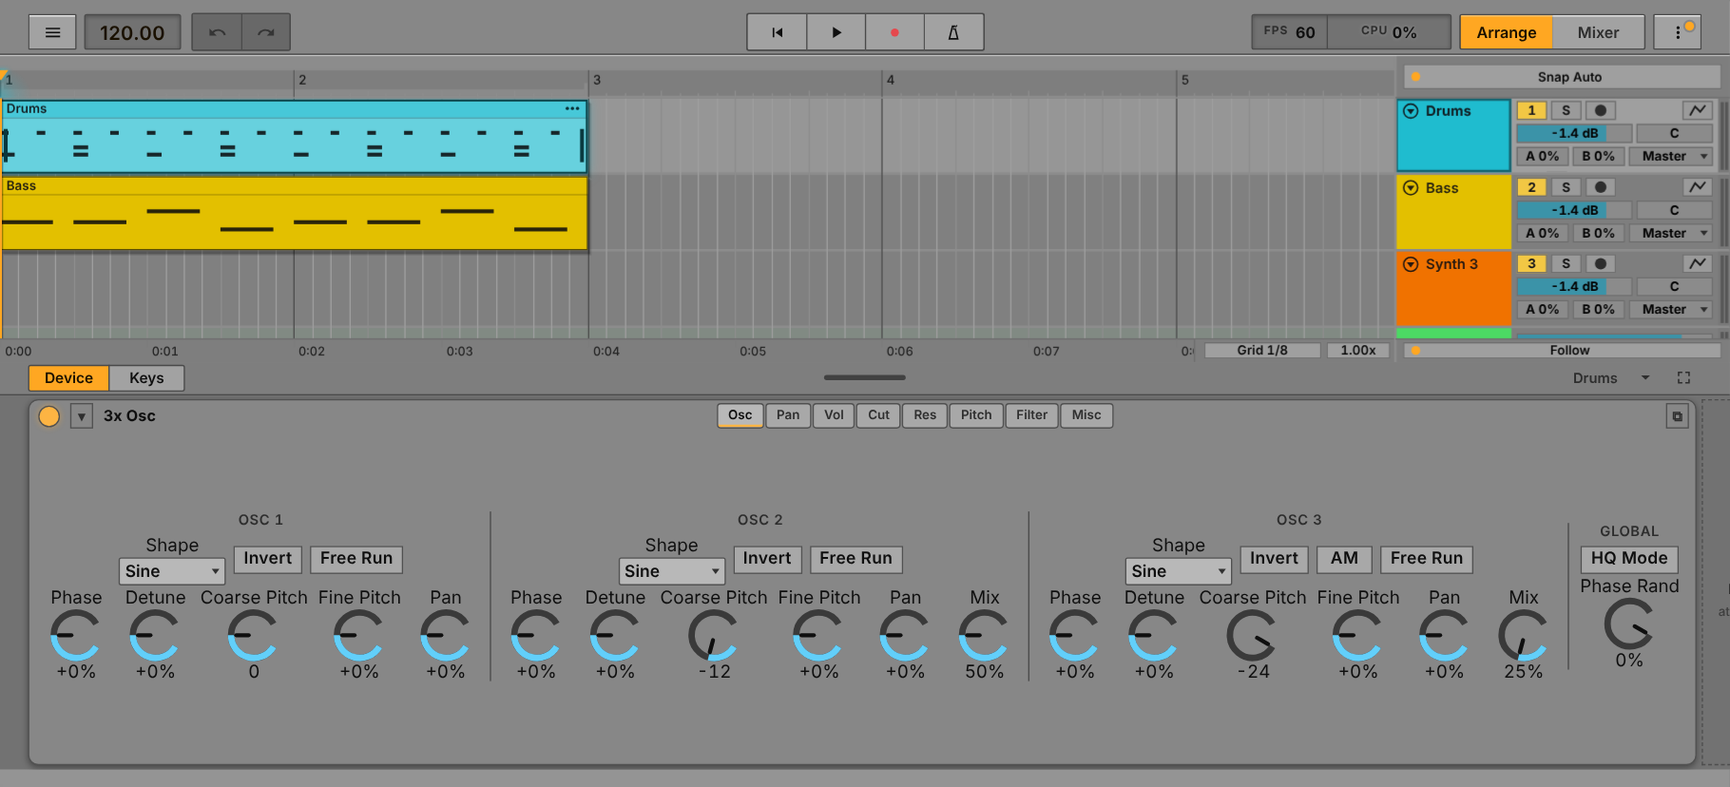
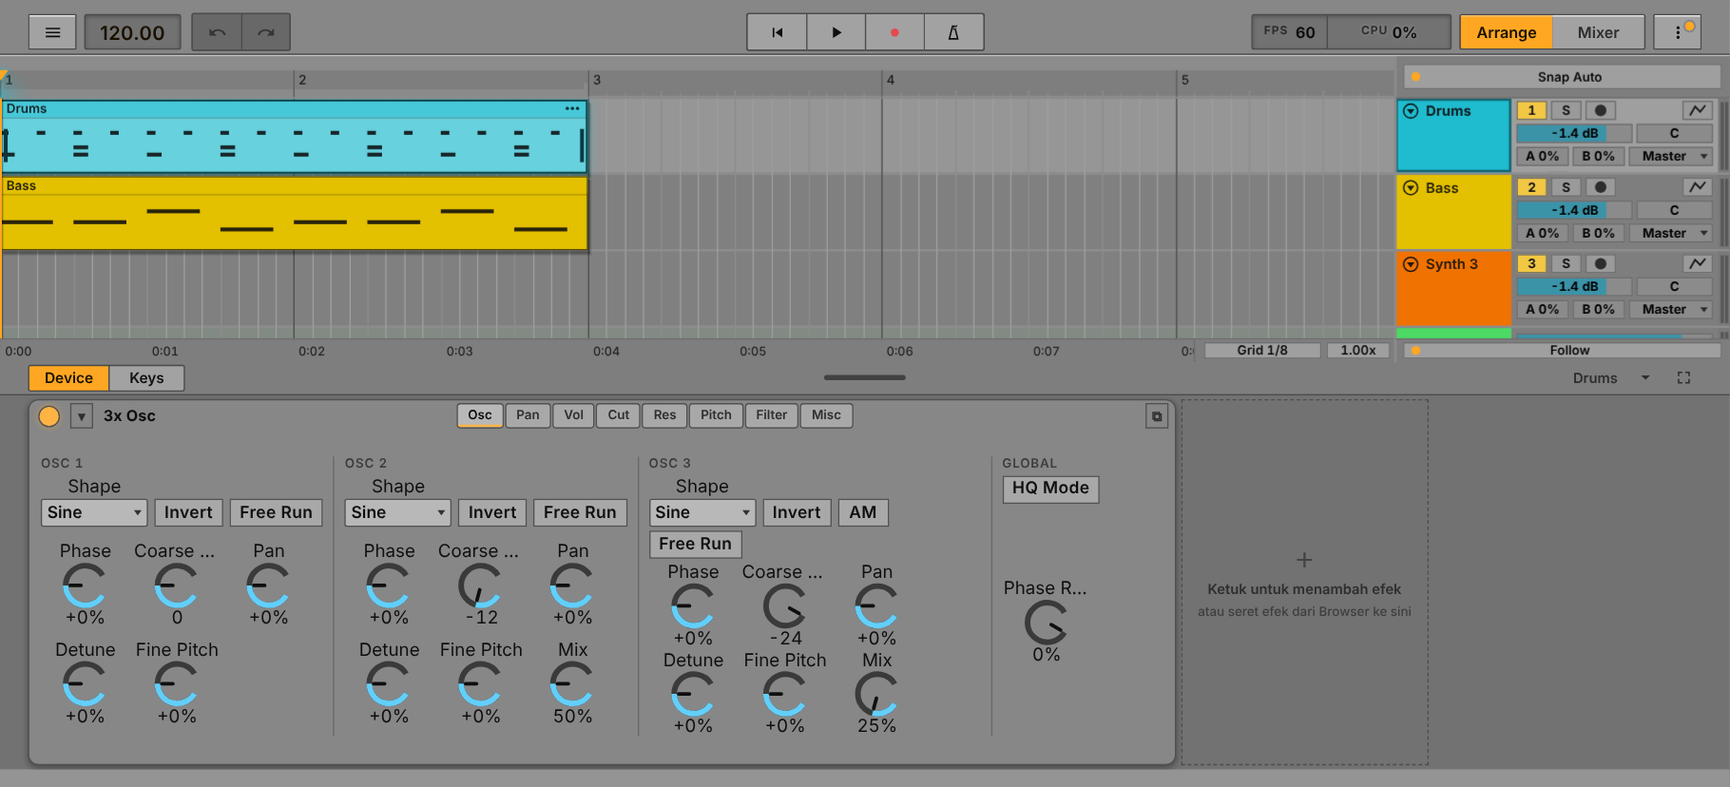
FLM module cards in Ableton Live's layout
- js/flmlayout.js: a layout per FLM module (37 effects, Transistor Bass,
  Slicer): titled sections, sync pairs, keyboards, label overrides.
- fxkit.js flmLayout: display on the left, sections with menus/switches on
  top and a two-row knob grid with fixed cells; Title Case labels without
  the section's own prefix, Live-style abbreviations; only the active rate
  control of a Sync pair is shown; Pitcher / Pitcher 2 keyboards toggle notes
  by tapping the display. 3x Osc tabs use the same renderer.
- Card screenshots in docs/redesign/flmfx/cards-*.png.

Claude-Session: https://claude.ai/code/session_016R99TjSh2G5U2VqVgMNHhT

diff --git a/js/fxkit.js b/js/fxkit.js
@@ -7,6 +7,7 @@ import { C } from './theme.js';
 import { fmtParam, normOf, valOf, MOD_MAP, DEVICES, INSTRUMENTS, FX_GROUPS, IRACK_DEF } from './defs.js';
 import { buildSynth } from './devviz.js';
 import { menuItem } from './fxlaw.js';
+import { FLM_LAYOUT, flmName, flmShort } from './flmlayout.js';
 import { FLM_GRAPH } from './flmviz.js';
 import { OP_ALGOS } from './engine/operator.js';
 import { POLI_TGT, POLI_GRID, POLI_MIDI } from './engine/poli.js';
@@ -1721,8 +1722,45 @@ const flmPanel = (k, only = null, short = null) => {
     notes.length ? h('div', { class: 'lk-row lk-flmnotes' }, ...notes) : null, h('div', { class: 'lk-row lk-flmk' }, ...knobs));
   return disp ? h('div', { class: 'lk-row lk-flm' }, h('div', { class: 'lk-col lk-flmd' }, disp), body) : body;
 };
-for (const t of Object.keys(DEVICES)) if (DEVICES[t].view === 'flmfx') V[t] = flmPanel;
-VI[34] = flmPanel;   // Transistor Bass: the same compact FLM layout (its Distortion is a switch)
+// Live-style card of an FLM module (js/flmlayout.js): its display left, then titled sections; in a section the menus / switches on top and
+// the knobs in a grid (two rows from four knobs on), Sync pairs show only the rate control that plays, note toggles as a one-octave keyboard.
+const BLACK = [1, 3, 6, 8, 10];
+const flmLayout = (k, L) => {
+  const ps = k.def.params, when = [];
+  const esc = (t) => t.replace(/[.*+?^${}()|[\]\\/]/g, '\\$&');
+  const tidy = (j, title = '') => {   // the name without what its section title already says ("LFO Rate" in LFO -> "Rate"), first letter capital
+    if (L.names && L.names[j]) return L.names[j];
+    let n = flmName(ps[j].n); if (title) n = n.replace(new RegExp('^' + esc(title) + ' ', 'i'), ''); if (L.strip) n = n.replace(L.strip, ''); n = n.trim() || flmName(ps[j].n);
+    return n[0].toUpperCase() + n.slice(1);
+  };
+  const ctl = (j, title = '') => {
+    const p = ps[j]; let el; const nm = tidy(j, title);
+    if (p.fmt === 'flmlist') { const n = p.items.length; el = k.TL(nm, k.reg(lvSel(() => p.items.map((l, q) => ({ label: l, value: q })), () => (p.br ? menuItem(p.br, k.get(j)) : Math.round(k.get(j) * (n - 1))), (q) => k.set(j, n > 1 ? q / (n - 1) : 0), { w: 84, cls: 'lk-s' }), j)); el.dataset.kind = 'm'; }
+    else if (p.fmt === 'onoff') { el = k.T(j, nm, { w: Math.max(40, Math.min(110, 10 + nm.length * 7)) }); el.dataset.kind = 't'; }
+    else { el = k.K(j, { n: flmShort(nm), p: { lawCtx: () => ({ p: k.d.params }) } }); el.title = nm; el.dataset.kind = 'k'; }
+    if (L.when && L.when[j]) when.push([el, L.when[j]]);
+    return el;
+  };
+  const section = ([title, idx]) => {
+    const els = idx.filter((j) => ps[j] && !ps[j].hidden).map((j) => ctl(j, title)), top = els.filter((e) => e.dataset.kind !== 'k'), kn = els.filter((e) => e.dataset.kind === 'k');
+    const grid = kn.length ? h('div', { class: 'lk-fg', style: `grid-template-rows:repeat(${kn.length >= 4 ? 2 : 1},auto)` }, ...kn) : null;
+    return h('div', { class: 'lk-fs' }, h('div', { class: 'lk-fsh' }, title), top.length ? h('div', { class: 'lk-fst' }, ...top) : null, grid);
+  };
+  const keys = L.keys ? h('div', { class: 'lk-fs' }, h('div', { class: 'lk-fsh' }, L.keys[0]), h('div', { class: 'lk-fkeys' }, ...L.keys[1].map((j, q) =>
+    k.T(j, ps[j].n.replace(new RegExp('^' + L.keys[2], 'i'), '').replace(/^(.)b$/, (_, a) => 'CDEFGAB'['CDEFGAB'.indexOf(a) - 1] + '#'), { w: 26, cls: 'lk-key' + (BLACK.includes(q) ? ' blk' : '') }))), L.after ? h('div', { class: 'lk-fst' }, ...L.after.map(ctl)) : null) : null;
+  const tap = L.tap ? { onDown: (x, y, e) => {   // flmviz.js keys(): white keys across, black keys on the upper 60 %
+    const c = e.currentTarget, w = c._w, hh = c._h, kw = (w - 8) / 7, top = 16, h2 = hh - top - 4, j = Math.floor((x - 4) / kw);
+    let note = [0, 2, 4, 5, 7, 9, 11][Math.max(0, Math.min(6, j))];
+    if (y < top + h2 * 0.6) for (const [bk, bj] of [[1, 0], [3, 1], [6, 3], [8, 4], [10, 5]]) { const cx = 4 + (bj + 1) * kw; if (Math.abs(x - cx) <= kw * 0.3) note = bk; }
+    const pi = L.tap(note); k.set(pi, k.get(pi) > 0.5 ? 0 : 1); return false; } } : null;
+  const gr = FLM_GRAPH[k.def.flm], disp = gr ? h('div', { class: 'lk-fdisp' + (tap ? ' tap' : '') }, k.DF(190, 96, (g, w, hh) => gr(g, w, hh, (j) => k.get(j)), tap)) : null;
+  const sync = () => { for (const [el, [t, on]] of when) { const show = (k.get(t) > 0.5) === on; if (el._shown !== show) { el._shown = show; el.style.display = show ? '' : 'none'; } } };
+  sync(); if (when.length) k.every(120, sync);
+  return h('div', { class: 'lk-row lk-fl' }, disp, ...(keys ? [keys] : []), ...L.s.map(section));
+};
+const flmCard = (k) => { const L = FLM_LAYOUT[k.def.flm != null && !k.def.native ? k.def.flm : 'i' + k.d.type]; return L ? flmLayout(k, L) : flmPanel(k); };
+for (const t of Object.keys(DEVICES)) if (DEVICES[t].view === 'flmfx') V[t] = flmCard;
+VI[34] = flmCard;   // Transistor Bass: the same compact FLM layout (its Distortion is a switch)
 // 3x Osc: FLM's eight pages (Honeydew instruments.rs) as tabs; within a page the controls drop the page's own prefix ("Volume Envelope Attack"
 // -> "Attack"). The tab is remembered per track.
 const OSC3_PAGES = (() => {
@@ -1736,8 +1774,9 @@ const OSC3_PAGES = (() => {
 const osc3Tab = new Map();
 VI[36] = (k) => {
   const key = k.ctx.d && k.ctx.d.id, page = h('div', { class: 'lk-row lk-o3p' });
-  const short = (n) => n.replace(/^Osc 3 = amplitude modulation$/, 'AM').replace(/^Osc [123] /, '').replace(/^Stereo Phase Randomness$/, 'Phase Rand').replace(/^(Pan|Volume|ModX|ModY|Pitch) (LFO|Envelope) /, '').replace(/^Delay /, '').replace(/^Arpeggio /, '').replace(/^Filter /, '').replace(/^Key Tracking /, 'Key ').replace(/^Velocity Tracking /, 'Vel ');
-  const show = (j) => { osc3Tab.set(key, j); page.replaceChildren(...OSC3_PAGES[j][1].map(([title, idx]) => h('div', { class: 'lk-col lk-o3g' }, h('div', { class: 'lk-o3h' }, title), flmPanel(k, idx, short)))); };
+  const short = (n) => n.replace(/^Osc 3 = amplitude modulation$/, 'AM').replace(/^Osc [123] /, '').replace(/^Stereo Phase Randomness$/, 'Phase Rand').replace(/^(Pan|Volume|ModX|ModY|Pitch) (LFO|Envelope) /, '').replace(/^Delay /, '').replace(/^Arpeggio /, '').replace(/^Filter /, '').replace(/^Key Tracking /, 'Key ').replace(/^Velocity Tracking /, 'Vel ').replace(/^(Attack|Decay|Release) Tension$/, (_, a) => a[0] + ' Curve').replace(/^Volume Multiplier$/, 'Vol Mult').replace(/^Portamento /, 'Porta ').replace(/^Maximum Polyphony$/, 'Voices').replace(/^Monophonic Mode$/, 'Mono');
+  const names = {}; for (const [, groups] of OSC3_PAGES) for (const [, idx] of groups) for (const j of idx) names[j] = short(k.def.params[j].n);
+  const show = (j) => { osc3Tab.set(key, j); page.replaceChildren(flmLayout(k, { s: OSC3_PAGES[j][1], names })); };
   const j0 = osc3Tab.get(key) || 0;
   const tb = lvTabs(OSC3_PAGES.map(([label]) => ({ label })), j0, show, { cls: 'lk-tabs' });
   show(j0);
@@ -1748,7 +1787,7 @@ VI[35] = (k) => {
   const { i } = k.ctx, t = P.state.tracks[i], z = () => (t.inst.zones && t.inst.zones[0]) || {};
   const name = h('span', { class: 'lk-lb' }), upd = () => { name.textContent = z().sample ? (z().sample.name || String(z().sample.path || '').split('/').pop()) : 'Belum ada loop'; };
   upd(); k.every(500, upd);
-  return k.col(h('div', { class: 'lk-row lk-flmtop' }, h('button', { class: 'lv-btn', onclick: () => BR.openBrowser('file', { track: i, zone: 0 }) }, 'Loop\u2026'), name), flmPanel(k));
+  return k.col(h('div', { class: 'lk-row lk-flmtop' }, h('button', { class: 'lv-btn', onclick: () => BR.openBrowser('file', { track: i, zone: 0 }) }, 'Loop\u2026'), name), flmCard(k));
 };
 
 export const KIT = V;

diff --git a/js/flmlayout.js b/js/flmlayout.js
@@ -1,0 +1,70 @@
+// Card layouts of the FL Studio Mobile modules MobileDAW runs on Honeydew's DSP (devices 100 + FLM id, instruments 34 / 35), drawn the
+// Ableton Live way (fxkit.js flmLayout): the module's display on the left, then titled sections; in a section the menus and switches sit on
+// top and the knobs in a grid of two rows. Indices are FLM's parameter order (js/flmfx.js, defs.js INSTRUMENTS).
+//   s:    [title, [param indices]] per section, in reading order (a param left out stays reachable through automation only if hidden)
+//   keys: [title, [12 note toggles C..B], label prefix to drop] - a one-octave keyboard (Scale, Pitcher, Pitcher 2)
+//   when: { param: [sync toggle, shown while it is on] } - Live's Sync: only the rate control that plays is shown
+//   names: { param: label } where the FLM name would read wrong in its section
+//   tap: (note 0..11) => param - the display is a keyboard (flmviz keys) and a tap toggles that note; tapKeys: those params (no buttons)
+//   strip: a regexp of name parts the section titles already say ("Low ", " (Arp 1)")
+const R = (a, b) => Array.from({ length: b - a + 1 }, (_, q) => a + q);
+const band = (n) => ['Band ' + n, [4 * n, 4 * n - 3, 4 * n - 2, 4 * n - 1, 16 + n]];
+const arp = (n, o) => ['Arp ' + n, [o + 19, o + 10, o + 11, o + 12, o + 13, o + 14, o + 17, o + 18, o + 9, o + 15, 30 + n]];
+const mb = (name, o, w) => [name, [o + 6, o, o + 1, o + 2, o + 3, o + 4, o + 5, w]];
+
+export const FLM_LAYOUT = {
+  3: { s: [band(1), band(2), band(3), band(4)], strip: / \d$/ },
+  4: { s: [['FX', [1, 2, 3]], ['LFO', [4, 6, 5]]] },
+  5: { s: [['Limiter', [1, 2, 3]]] },
+  6: { s: [['Drive', [5, 1, 6, 2]], ['Output', [3, 4]]] },
+  7: { s: [['Bands', R(1, 8)]] },
+  8: { s: [['Compression', [1, 2, 3, 4, 6]], ['Output', [7, 9, 8, 5]]] },
+  9: { s: [['Filter', [3, 4, 1, 2]]] },
+  10: { s: [['Duck', [1, 2, 3]]] },
+  11: { s: [['Chorus', [1, 2, 3, 4]]] },
+  12: { s: [['Reverb', [1, 4, 5, 6, 11, 2]], ['Tone', [8, 9, 17, 18, 7]], ['Modulation', [19, 20]], ['Output', [10, 3, 12]]] },
+  13: { s: [['LFO', [2, 1, 3, 4, 5]], ['Flanger', [6, 7, 9, 8]], ['Output', [10, 11]]], when: { 1: [2, true], 3: [2, false] } },
+  14: { s: [['LFO', [6, 1, 7, 8, 2]], ['Phaser', [4, 3, 9]], ['Output', [5]]], when: { 1: [6, true], 7: [6, false] } },
+  15: { s: [['Stereo', [1, 2, 3, 4, 5]]] },
+  16: { s: [['Delay', [1, 5, 2, 4]], ['Output', [3, 6]]] },
+  18: { s: [['Delay', [1, 2, 3, 4]]] },
+  20: { s: [['Level', [1, 2]]] },
+  25: { s: [['Pitch', [6, 1, 2, 3, 7, 8]], ['Formant', [4, 5]], ['Output', [9]]], keys: ['Bypass', R(10, 21), 'BYP '], after: [22], tap: (k) => 26 + k },   // tap a key of the display: that note on / off (the 12 enables after Post Gain / Mix / Wet Pan)
+  27: { s: [['Gate', [1, 2, 8]], ['Envelope', [3, 4, 5, 6]], ['Output', [7]]] },
+  28: { s: [['Limiter', [4, 3]], ['Gain', [1, 2]]] },
+  29: { s: [['Shape', [7, 4, 5]], ['Duck', [1, 2, 3, 6]]] },
+  30: { s: [['Bands', R(1, 8)], ['Tuning', [9, 10]]] },
+  32: { s: [['Reverb', [1, 7, 8, 9, 6, 5]], ['Tone', [2, 10, 11]], ['Modulation', [12, 13]], ['Output', [3, 4, 14, 15]]] },
+  34: { s: [['L/R', [4, 1, 2]], ['M/S', [6, 5, 3]], ['Mode', [7]]] },
+  35: { s: [['Space', [3, 4, 5, 6, 15]], ['Pre-Delay', [12, 11, 10]], ['Tone', [1, 2, 14, 17]], ['Modulation', [13, 16]], ['Output', [7, 8, 9, 18]]] },
+  36: { s: [['Bands', [4, 30, 2, 3, 1, 5]], mb('Low', 6, 27), mb('Mid', 13, 28), mb('High', 20, 29)], names: { 2: 'Low/Mid', 3: 'Mid/High', 1: 'Output', 30: 'Width', 12: 'Mode', 19: 'Mode', 26: 'Mode' } },
+  40: { s: [['Comb', [1, 7, 2, 10, 11, 3]], ['Shape', [5, 8, 9, 6]], ['Output', [4]]] },
+  41: { names: { 18: 'Rate', 7: 'Spread' }, s: [['Shape', [1, 2, 3, 4, 5]], ['Tone', R(9, 14)], ['LFO', [15, 16, 17, 18, 19, 20]], ['Output', [6, 7, 8]]], when: { 17: [16, true], 18: [16, false] } },
+  42: { s: [['Transport', [5, 7]], ['Stop', [1, 3]], ['Start', [2, 4]], ['Warp', [6]]], when: { 1: [7, false], 3: [7, true], 2: [7, false], 4: [7, true] } },
+  43: { s: [['Sync', [7]], ['Wow', [1, 2, 3]], ['Flutter', [4, 5, 6]], ['Random', [8, 9, 10]]],
+    when: { 1: [7, false], 2: [7, true], 4: [7, false], 5: [7, true], 8: [7, false], 9: [7, true] }, strip: /^(Wow|Flutter|Random) / },
+  44: { names: { 2: 'Low Byp', 3: 'Mono Lo' }, s: [['Spread', [1, 4, 2, 3]]] },
+  45: { s: [['Pitch', [21, 13, 19, 20, 23, 24]], ['Formant', [16, 17, 18]], ['Output', [22, 25, 26]]], tap: (k) => 1 + k, tapKeys: R(1, 12) },
+  46: { names: { 1: 'Rate', 2: 'Rate', 5: 'Phase', 6: 'Stereo', 3: 'Max', 4: 'Min' }, s: [['Rate', [7, 1, 2, 5, 6]], ['Depth', [3, 4]], ['Shape', [8, 9, 10, 11]]], when: { 1: [7, false], 2: [7, true] } },
+  47: { names: { 1: 'Repeats', 2: 'Delay', 3: 'Delay', 5: 'Pitch', 6: 'Velocity', 12: 'Pan', 9: 'Time', 10: 'Length', 11: 'Delay', 13: 'Pan' }, s: [['Echo', [4, 2, 3, 1, 15]], ['Offsets', [5, 6, 12, 14]], ['Drift', [9, 10, 11, 13]], ['Start', [7, 8]]], when: { 2: [4, false], 3: [4, true] } },
+  48: { s: [['Transpose', [1, 2]]] },
+  49: { s: [['Random', R(1, 6)]] },
+  50: { s: [['Scale', [1, 2, 3]]], keys: ['Notes', R(4, 15), 'Note '] },
+  51: { s: [['Rate', [3, 1, 2, 4, 5, 6]], ['Velocity', [7, 8]], arp(1, 0), arp(2, 11)], when: { 1: [3, true], 2: [3, false] }, strip: / \(Arp \d\)$/ },
+  // instruments (defs.js INSTRUMENTS[34] / [35])
+  i34: { names: { 11: 'PW', 12: 'LFO Rate', 13: 'LFO > PW' }, s: [['Oscillator', [1, 11, 12, 13]], ['Filter', [2, 3, 4, 5, 6]], ['Distortion', [7, 8, 9, 10]]] },
+  i35: { s: [['Slices', [7, 8]], ['Voice', [1, 3, 4, 5, 6]]] },
+};
+
+// FLM's panel names in Live's title case: "HIGH DAMP" -> "High Damp", "EARLY REFL." -> "Early Refl." (short codes stay: ER, LFO, M/S ...)
+const KEEP = new Set(['ER', 'LFO', 'FX', 'L/R', 'M/S', 'EQ', 'RMS', 'CRSV']);
+export function flmName(n) {
+  if (!n) return n;
+  if (/[a-z]/.test(n)) return n[0].toUpperCase() + n.slice(1);
+  return n.split(' ').map((w) => (KEEP.has(w) ? w : w.toLowerCase().replace(/(^|[-/(])([a-z])/g, (_, a, b) => a + b.toUpperCase()))).join(' ');
+}
+// Live's short words where a knob label would not fit its cell
+const SHORT = [[/\bFrequency\b/, 'Freq'], [/\bBandwidth\b/, 'Width'], [/\bResonance\b/, 'Reso'], [/\bThreshold\b/, 'Thresh'], [/\bOutput\b/, 'Out'], [/\bInput\b/i, 'In'], [/\bAmount\b/, 'Amt'],
+  [/\bRelease\b/, 'Rel'], [/\bAttack\b/, 'Att'], [/\bFeedback\b/, 'Fdbk'], [/\bDiffusion\b/, 'Diffuse'], [/\bSeparation\b/, 'Sep'], [/\bModulation\b/, 'Mod'], [/ Time\b/, ''], [/\bLevel\b/, 'Lvl'],
+  [/^Early Refl\.$/, 'Early'], [/^Room Size$/, 'Size'], [/^Bass Mult\.$/, 'Bass'], [/^High Damp$/, 'Damp'], [/\bSpeed\b/, 'Spd'], [/\bSemitone\b/, 'Semi'], [/\bRepetitions\b/, 'Repeats'], [/ Ratio$/, ''], [/^Humanization$/, 'Human'], [/\bSensitivity\b/, 'Sens'], [/\bSmoothing\b/, 'Smooth'], [/\bStability\b/, 'Stable'], [/\bAsymmetry\b/, 'Asym']];
+export function flmShort(n) { if (n.length <= 7) return n; for (const [re, w] of SHORT) { n = n.replace(re, w).trim(); if (n.length <= 7) break; } return n; }

diff --git a/sw.js b/sw.js
@@ -1,6 +1,6 @@
 // Offline cache. The cache name contains a hash of every file, so a new deploy replaces the old cache automatically.
-const CACHE = 'mobiledaw-075515709b95';
-const ASSETS = ["./", "./css/app.css", "./css/ableton.css", "./css/float.css", "./css/live.css", "./icons/icon-192.png", "./icons/icon-512.png", "./icons/icon-maskable-512.png", "./index.html", "./js/about.js", "./js/aboutdata.js", "./js/audioedit.js", "./js/autocurve.js", "./js/automate.js", "./js/autosave.js", "./js/browser.js", "./js/chords.js", "./js/colorpick.js", "./js/defs.js", "./js/demos.js", "./js/devices.js", "./js/devviz.js", "./js/drumpad.js", "./js/edgeguard.js", "./js/editor.js", "./js/engine.js", "./js/engine/analog.js", "./js/engine/audioops.js", "./js/engine/cmdtext.js", "./js/engine/core.js", "./js/engine/dsp.js", "./js/engine/drift.js", "./js/engine/ds.js", "./js/engine/fx.js", "./js/engine/fx2.js", "./js/engine/fx3.js", "./js/engine/fx4.js", "./js/engine/fx5.js", "./js/engine/fx6.js", "./js/engine/fx7.js", "./js/engine/fx8.js", "./js/engine/granulator.js", "./js/engine/impulse.js", "./js/engine/instruments.js", "./js/engine/live.js", "./js/engine/meld.js", "./js/engine/meter.js", "./js/engine/mp3.js", "./js/engine/mp3tables.js", "./js/engine/nativesink.js", "./js/engine/operator.js", "./js/engine/phys.js", "./js/engine/poli.js", "./js/engine/sabio.js", "./js/engine/sf2.js", "./js/engine/simpler.js", "./js/engine/flmsyn.js", "./js/engine/hdgms.js", "./js/engine/hdmfx.js", "./js/engine/hdmini.js", "./js/engine/hdsaw.js", "./js/engine/smf.js", "./js/engine/stretchworker.js", "./js/engine/tmap.js", "./js/engine/wav.js", "./js/engine/waveops.js", "./js/engine/mdaw.wasm", "./js/engine/wasmengine.js", "./js/engine/web.js", "./js/engine/worklet-wasm.js", "./js/engine/worklet.js", "./js/floatwin.js", "./js/fps.js", "./js/fxviz.js", "./js/fxkit.js", "./js/flmpanels.js", "./js/flmfx.js", "./js/flm3osc.js", "./js/fxlaw.js", "./js/flmviz.js", "./js/gesture.js", "./js/history.js", "./js/import/als.js", "./js/import/build.js", "./js/import/flm.js", "./js/import/flp.js", "./js/import/fxmap.js", "./js/import/gm.js", "./js/import/index.js", "./js/import/ui.js", "./js/keymap.js", "./js/keys.js", "./js/layout.js", "./js/liveinst.js", "./js/liveui.js", "./js/log.js", "./js/main.js", "./js/midi.js", "./js/midiio.js", "./js/minimeters.js", "./js/mmdraw.js", "./js/native.js", "./js/perf.js", "./js/mixer.js", "./js/prefs.js", "./js/presetlib.js", "./js/presets.js", "./js/project.js", "./js/projects.js", "./js/pwa.js", "./js/quicksave.js", "./js/reorder.js", "./js/safdir.js", "./js/settingsui.js", "./js/storage.js", "./js/tempo.js", "./js/theme.js", "./js/timeline.js", "./js/topbar.js", "./js/touchhit.js", "./js/ui.js", "./js/uiscale.js", "./js/waveform.js", "./js/zip.js", "./manifest.json"];
+const CACHE = 'mobiledaw-83b5eab9c642';
+const ASSETS = ["./", "./css/app.css", "./css/ableton.css", "./css/float.css", "./css/live.css", "./icons/icon-192.png", "./icons/icon-512.png", "./icons/icon-maskable-512.png", "./index.html", "./js/about.js", "./js/aboutdata.js", "./js/audioedit.js", "./js/autocurve.js", "./js/automate.js", "./js/autosave.js", "./js/browser.js", "./js/chords.js", "./js/colorpick.js", "./js/defs.js", "./js/demos.js", "./js/devices.js", "./js/devviz.js", "./js/drumpad.js", "./js/edgeguard.js", "./js/editor.js", "./js/engine.js", "./js/engine/analog.js", "./js/engine/audioops.js", "./js/engine/cmdtext.js", "./js/engine/core.js", "./js/engine/dsp.js", "./js/engine/drift.js", "./js/engine/ds.js", "./js/engine/fx.js", "./js/engine/fx2.js", "./js/engine/fx3.js", "./js/engine/fx4.js", "./js/engine/fx5.js", "./js/engine/fx6.js", "./js/engine/fx7.js", "./js/engine/fx8.js", "./js/engine/granulator.js", "./js/engine/impulse.js", "./js/engine/instruments.js", "./js/engine/live.js", "./js/engine/meld.js", "./js/engine/meter.js", "./js/engine/mp3.js", "./js/engine/mp3tables.js", "./js/engine/nativesink.js", "./js/engine/operator.js", "./js/engine/phys.js", "./js/engine/poli.js", "./js/engine/sabio.js", "./js/engine/sf2.js", "./js/engine/simpler.js", "./js/engine/flmsyn.js", "./js/engine/hdgms.js", "./js/engine/hdmfx.js", "./js/engine/hdmini.js", "./js/engine/hdsaw.js", "./js/engine/smf.js", "./js/engine/stretchworker.js", "./js/engine/tmap.js", "./js/engine/wav.js", "./js/engine/waveops.js", "./js/engine/mdaw.wasm", "./js/engine/wasmengine.js", "./js/engine/web.js", "./js/engine/worklet-wasm.js", "./js/engine/worklet.js", "./js/floatwin.js", "./js/fps.js", "./js/fxviz.js", "./js/fxkit.js", "./js/flmpanels.js", "./js/flmfx.js", "./js/flm3osc.js", "./js/flmlayout.js", "./js/fxlaw.js", "./js/flmviz.js", "./js/gesture.js", "./js/history.js", "./js/import/als.js", "./js/import/build.js", "./js/import/flm.js", "./js/import/flp.js", "./js/import/fxmap.js", "./js/import/gm.js", "./js/import/index.js", "./js/import/ui.js", "./js/keymap.js", "./js/keys.js", "./js/layout.js", "./js/liveinst.js", "./js/liveui.js", "./js/log.js", "./js/main.js", "./js/midi.js", "./js/midiio.js", "./js/minimeters.js", "./js/mmdraw.js", "./js/native.js", "./js/perf.js", "./js/mixer.js", "./js/prefs.js", "./js/presetlib.js", "./js/presets.js", "./js/project.js", "./js/projects.js", "./js/pwa.js", "./js/quicksave.js", "./js/reorder.js", "./js/safdir.js", "./js/settingsui.js", "./js/storage.js", "./js/tempo.js", "./js/theme.js", "./js/timeline.js", "./js/topbar.js", "./js/touchhit.js", "./js/ui.js", "./js/uiscale.js", "./js/waveform.js", "./js/zip.js", "./manifest.json"];
 self.addEventListener('install', (e) => { e.waitUntil(caches.open(CACHE).then((c) => c.addAll(ASSETS)).then(() => self.skipWaiting())); });
 self.addEventListener('activate', (e) => {
   e.waitUntil(caches.keys().then((ks) => Promise.all(ks.filter((k) => k.startsWith('mobiledaw-') && k !== CACHE).map((k) => caches.delete(k)))).then(() => self.clients.claim()));

diff --git a/css/ableton.css b/css/ableton.css
@@ -1590,3 +1590,21 @@ html.reduce-motion .lk-tabpg, html.reduce-motion .flm-pg > *, html.reduce-motion
 @media (prefers-reduced-motion: reduce) { .lk-tabpg, .flm-pg > *, .lk-page > * { animation: none; } }
 /* switches and choice buttons: the lit state fades instead of snapping */
 .lk .lv-btn, .flm-card .lv-btn { transition: background-color .16s ease, color .16s ease, border-color .16s ease, transform .14s cubic-bezier(.3, 1.6, .5, 1); }
+/* FLM module cards (fxkit.js flmLayout, js/flmlayout.js): display left, titled sections, knob grid of two rows - Live's device layout */
+.lk-fl { align-items: stretch; gap: 0; flex-wrap: nowrap; }
+.lk-fdisp { display: flex; flex: 0 0 auto; width: 190px; padding-right: 8px; margin-right: 2px; }
+.lk-fdisp > .lk-dfill { flex: 1 1 auto; }
+.lk-fs { display: flex; flex-direction: column; align-items: flex-start; gap: 3px; align-self: stretch; padding: 0 8px; border-left: 1px solid var(--sep, rgba(0,0,0,.2)); min-width: 0; }
+.lk-fdisp + .lk-fs, .lk-fl > .lk-fs:first-child { border-left: 0; padding-left: 0; }
+.lk-fsh { font-size: 10px; line-height: 12px; font-weight: 600; letter-spacing: .06em; text-transform: uppercase; opacity: .62; white-space: nowrap; }
+.lk-fst { display: flex; flex-wrap: wrap; gap: 3px 5px; align-items: flex-end; max-width: 260px; }
+.lk-fg { display: grid; grid-auto-flow: column; gap: 2px 2px; align-items: center; justify-items: center; flex: 1 1 auto; align-content: space-evenly; }
+.lk-fkeys { display: flex; gap: 1px; padding: 2px 0; }
+.lk .lk-fkeys .lk-key { width: 27px; min-width: 27px; height: 40px; padding: 0 0 3px; font-size: 10px; display: inline-flex; align-items: flex-end; justify-content: center; }
+.lk .lk-fkeys .lk-key.blk { height: 30px; align-self: flex-start; background: #3a3a3e; color: #ddd; }
+.lk .lk-fkeys .lk-key.blk.on { background: var(--accent, #f5a623); color: #111; }
+.lk .lk-fg > .knob.lk-k { width: 70px; min-width: 70px; }
+.lk .lk-fg > .knob.lk-k svg { width: 40px; height: 40px; }
+.lk .lk-fg > .knob.lk-k .k-n { max-width: 70px; overflow: hidden; text-overflow: ellipsis; white-space: nowrap; }
+.lk .lk-fg > .knob.lk-k .k-v { white-space: nowrap; }
+.lk-fst .lk-tl .lk-lb { font-size: 11px; }

diff --git a/docs/HANDOFF.md b/docs/HANDOFF.md
@@ -730,4 +730,5 @@ Permintaan pemilik: SEMUA efek dan instrumen diganti dengan set stok Ableton Liv
 - Loop proyek (HEAD @272/@280) -> loop region; kanal "zipped" (CHHD @1024) -> track dilipat; urutan kanal dibaca f64 @1028 (dulu setengah atas sebagai f32). Rentang kunci instrumen (ADD1): not di luar rentang tidak diimpor (synth), zona DirectWave lo/hi, Slicer First Note = kunci bawah.
 - 3x Osc (FLM 39 -> instrumen 36, C++ saja: `native/engine/hd3osc.*`, port three_osc/*: 3 osilator + tabel mip HQ, 8 filter, envelope / LFO per target, tracking, Mono / Porta / Gate, Echo / Fat Mode, Arpeggio 88 chord): identik bit dengan Rust Honeydew (35 kasus, harness di luar repo), golden `inst-flm3osc` (WASM = desktop). 149 param FLM (`js/flm3osc.js`, dibangkitkan dari instruments.rs) + param 149 = D (subdivisi TDIV, impor dari file). Teks nilai: 46.917 teks identik dengan Rust, fixture `tools/fixtures/flm3osc-text.json`. Panel: 8 tab seperti halaman FLM (Osc per osilator, LFO / Envelope terpisah). Enable off membekukan voice (seperti FLM). Tabel mip dibangun sekali saat HQ Mode pertama dipakai (sekitar 6 MB per bentuk).
 - Catatan 3x Osc: bentuk Custom (WAV dari CSTM PATH) belum dibaca: diam, seperti FLM sebelum file dimuat. Proyek lama yang mengimpor 3x Osc sebagai placeholder tidak menyimpan nilai knobnya: impor ulang file .flm.
+- Card UI modul FLM (37 efek + Transistor Bass / Slicer / 3x Osc): `fxkit.js flmLayout` + data `js/flmlayout.js`, gaya Ableton Live: grafik modul di kiri, seksi bertajuk (LFO / Envelope / Tone / Output ...), menu & tombol di atas, knob di grid dua baris dengan sel lebar tetap (70 px), label Title Case tanpa awalan yang sudah disebut judul seksi dan disingkat seperti Live (Freq, Reso, Fdbk). Sync seperti Live: hanya kontrol rate yang aktif yang tampil. Pitcher / Pitcher 2: keyboard di grafik bisa diketuk untuk menyalakan / mematikan not; Scale: keyboard satu oktaf. Lembar screenshot: `docs/redesign/flmfx/cards-*.png`. Tata letak lama (`flmPanel`) tetap jadi cadangan untuk modul tanpa entri.
 - `fxlaw.js menuItem` kini membandingkan dengan breakpoint f32 (`f(b)`): breakpoint dicetak sebagai f32 terpendek (0.7 = 0.699999988). Modul tambahan Honeydew (bukan FLM) sengaja tidak diport (keputusan pemilik).
